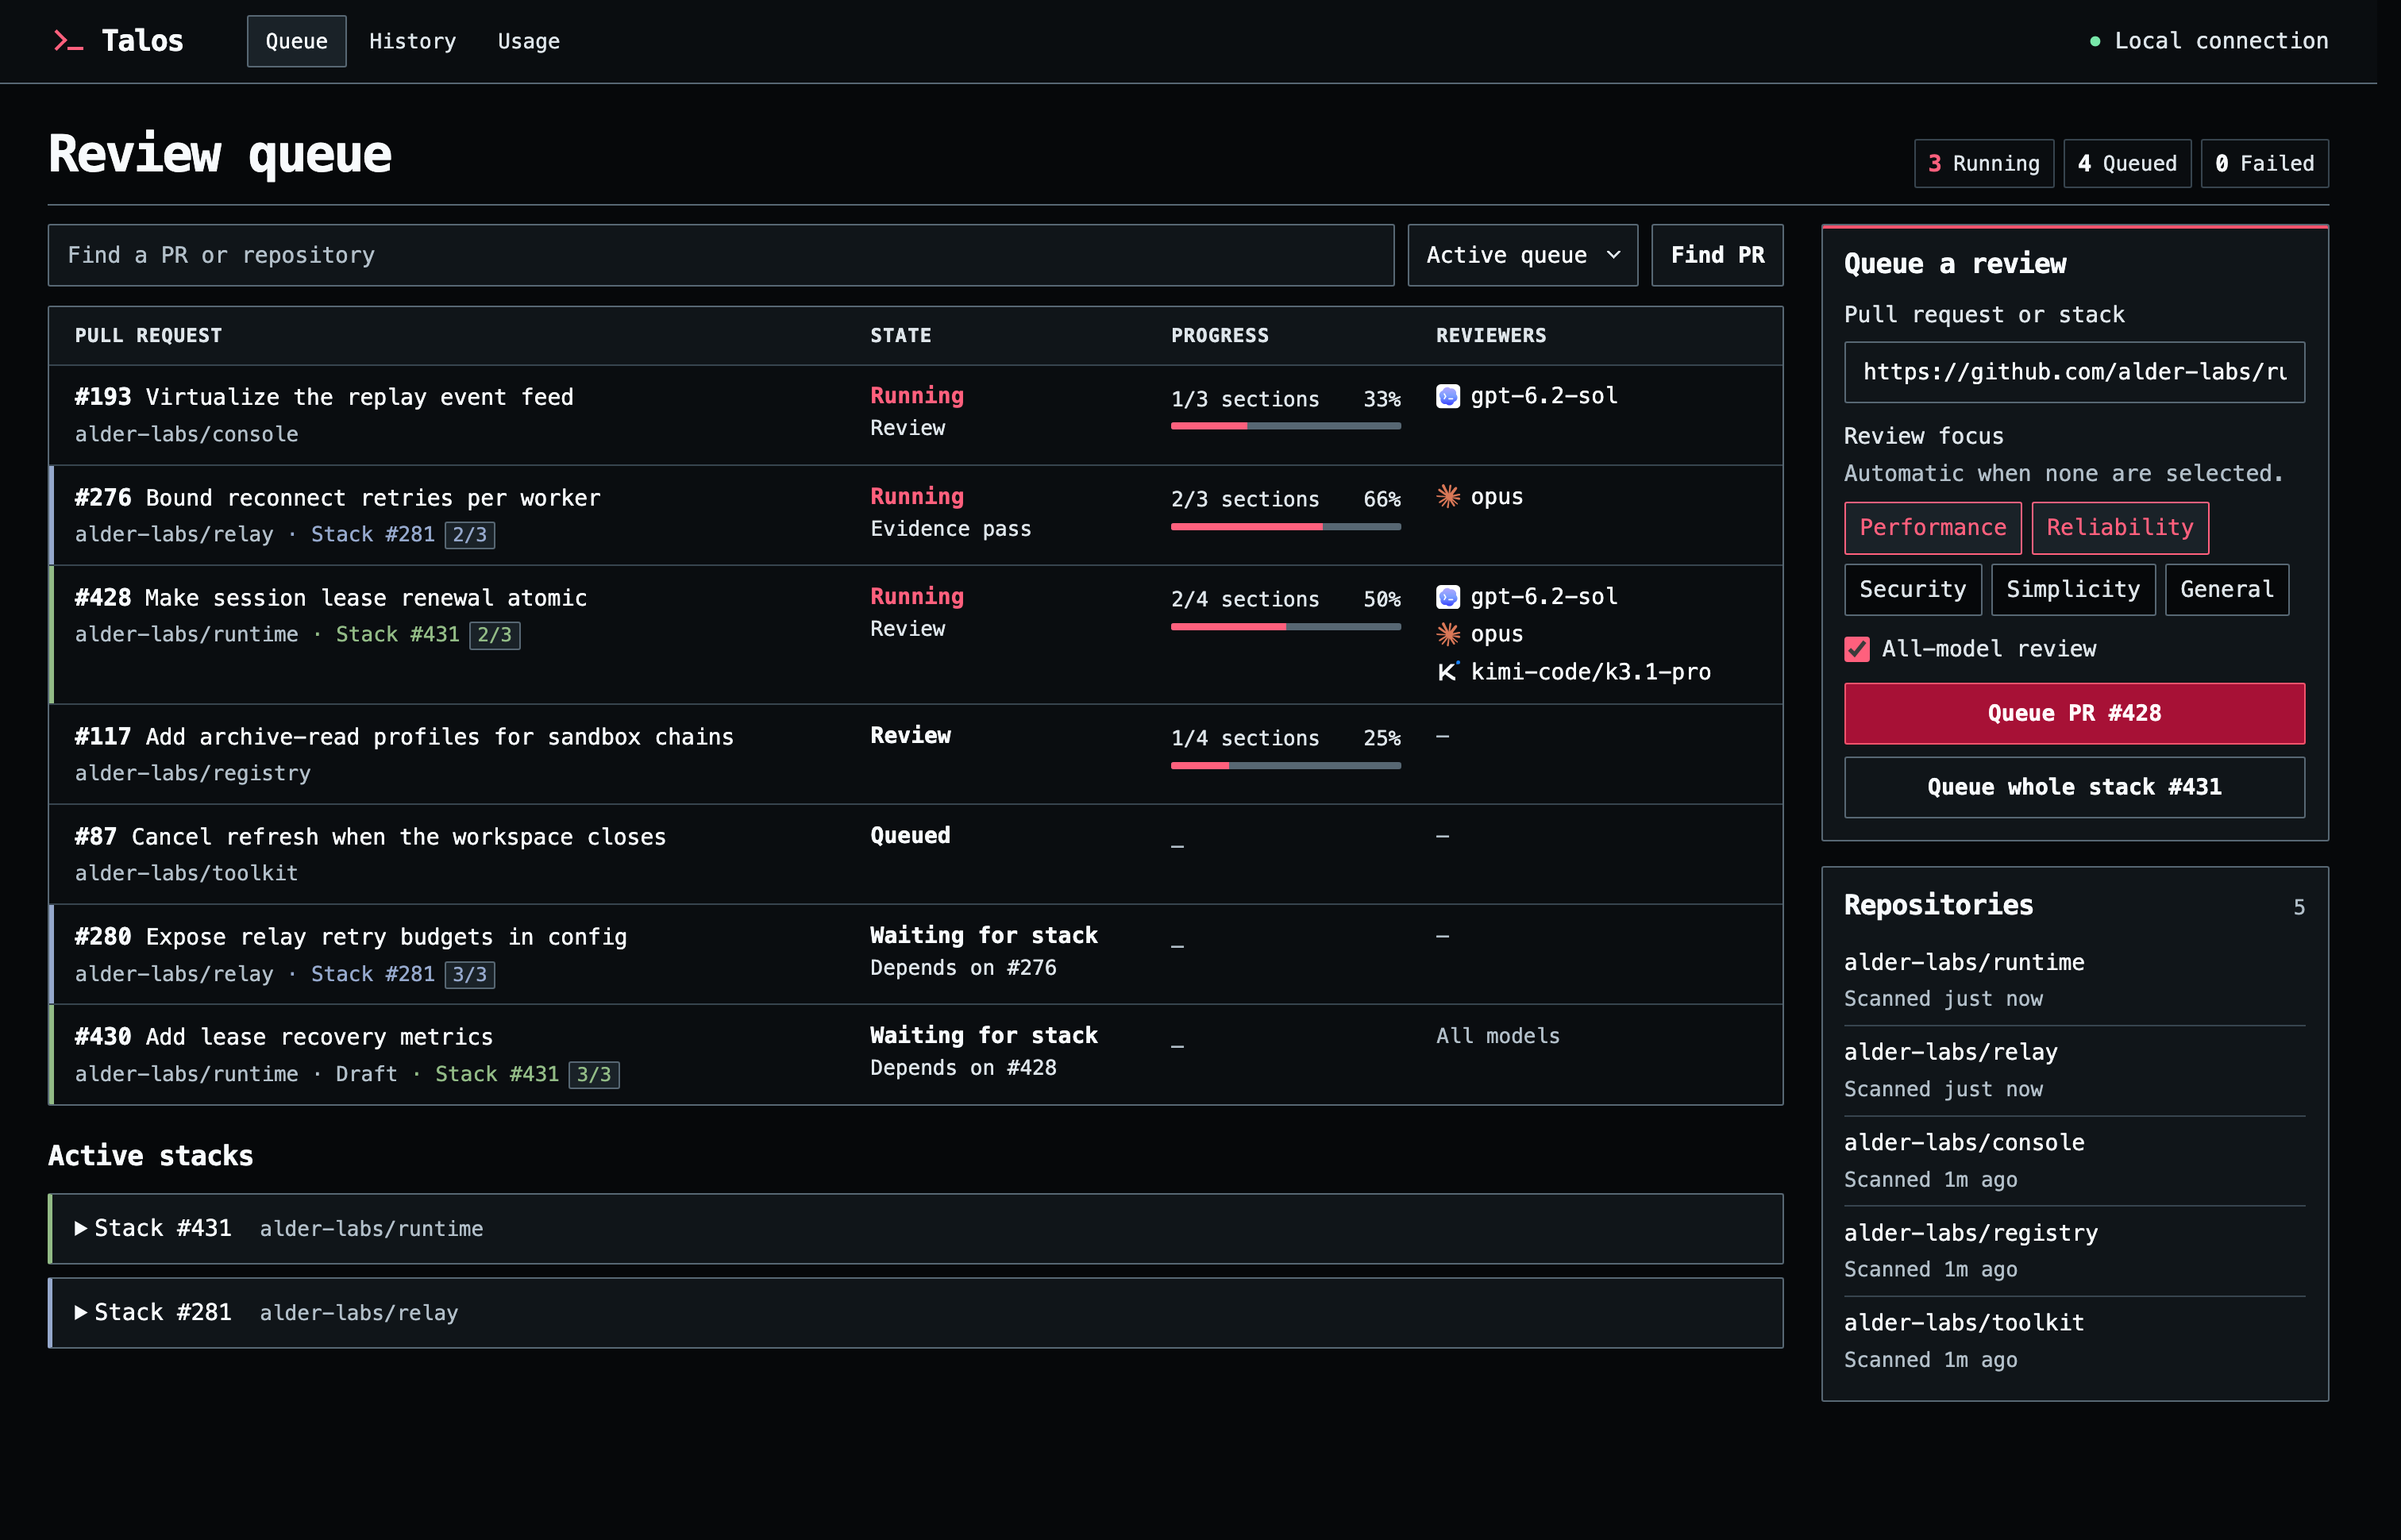
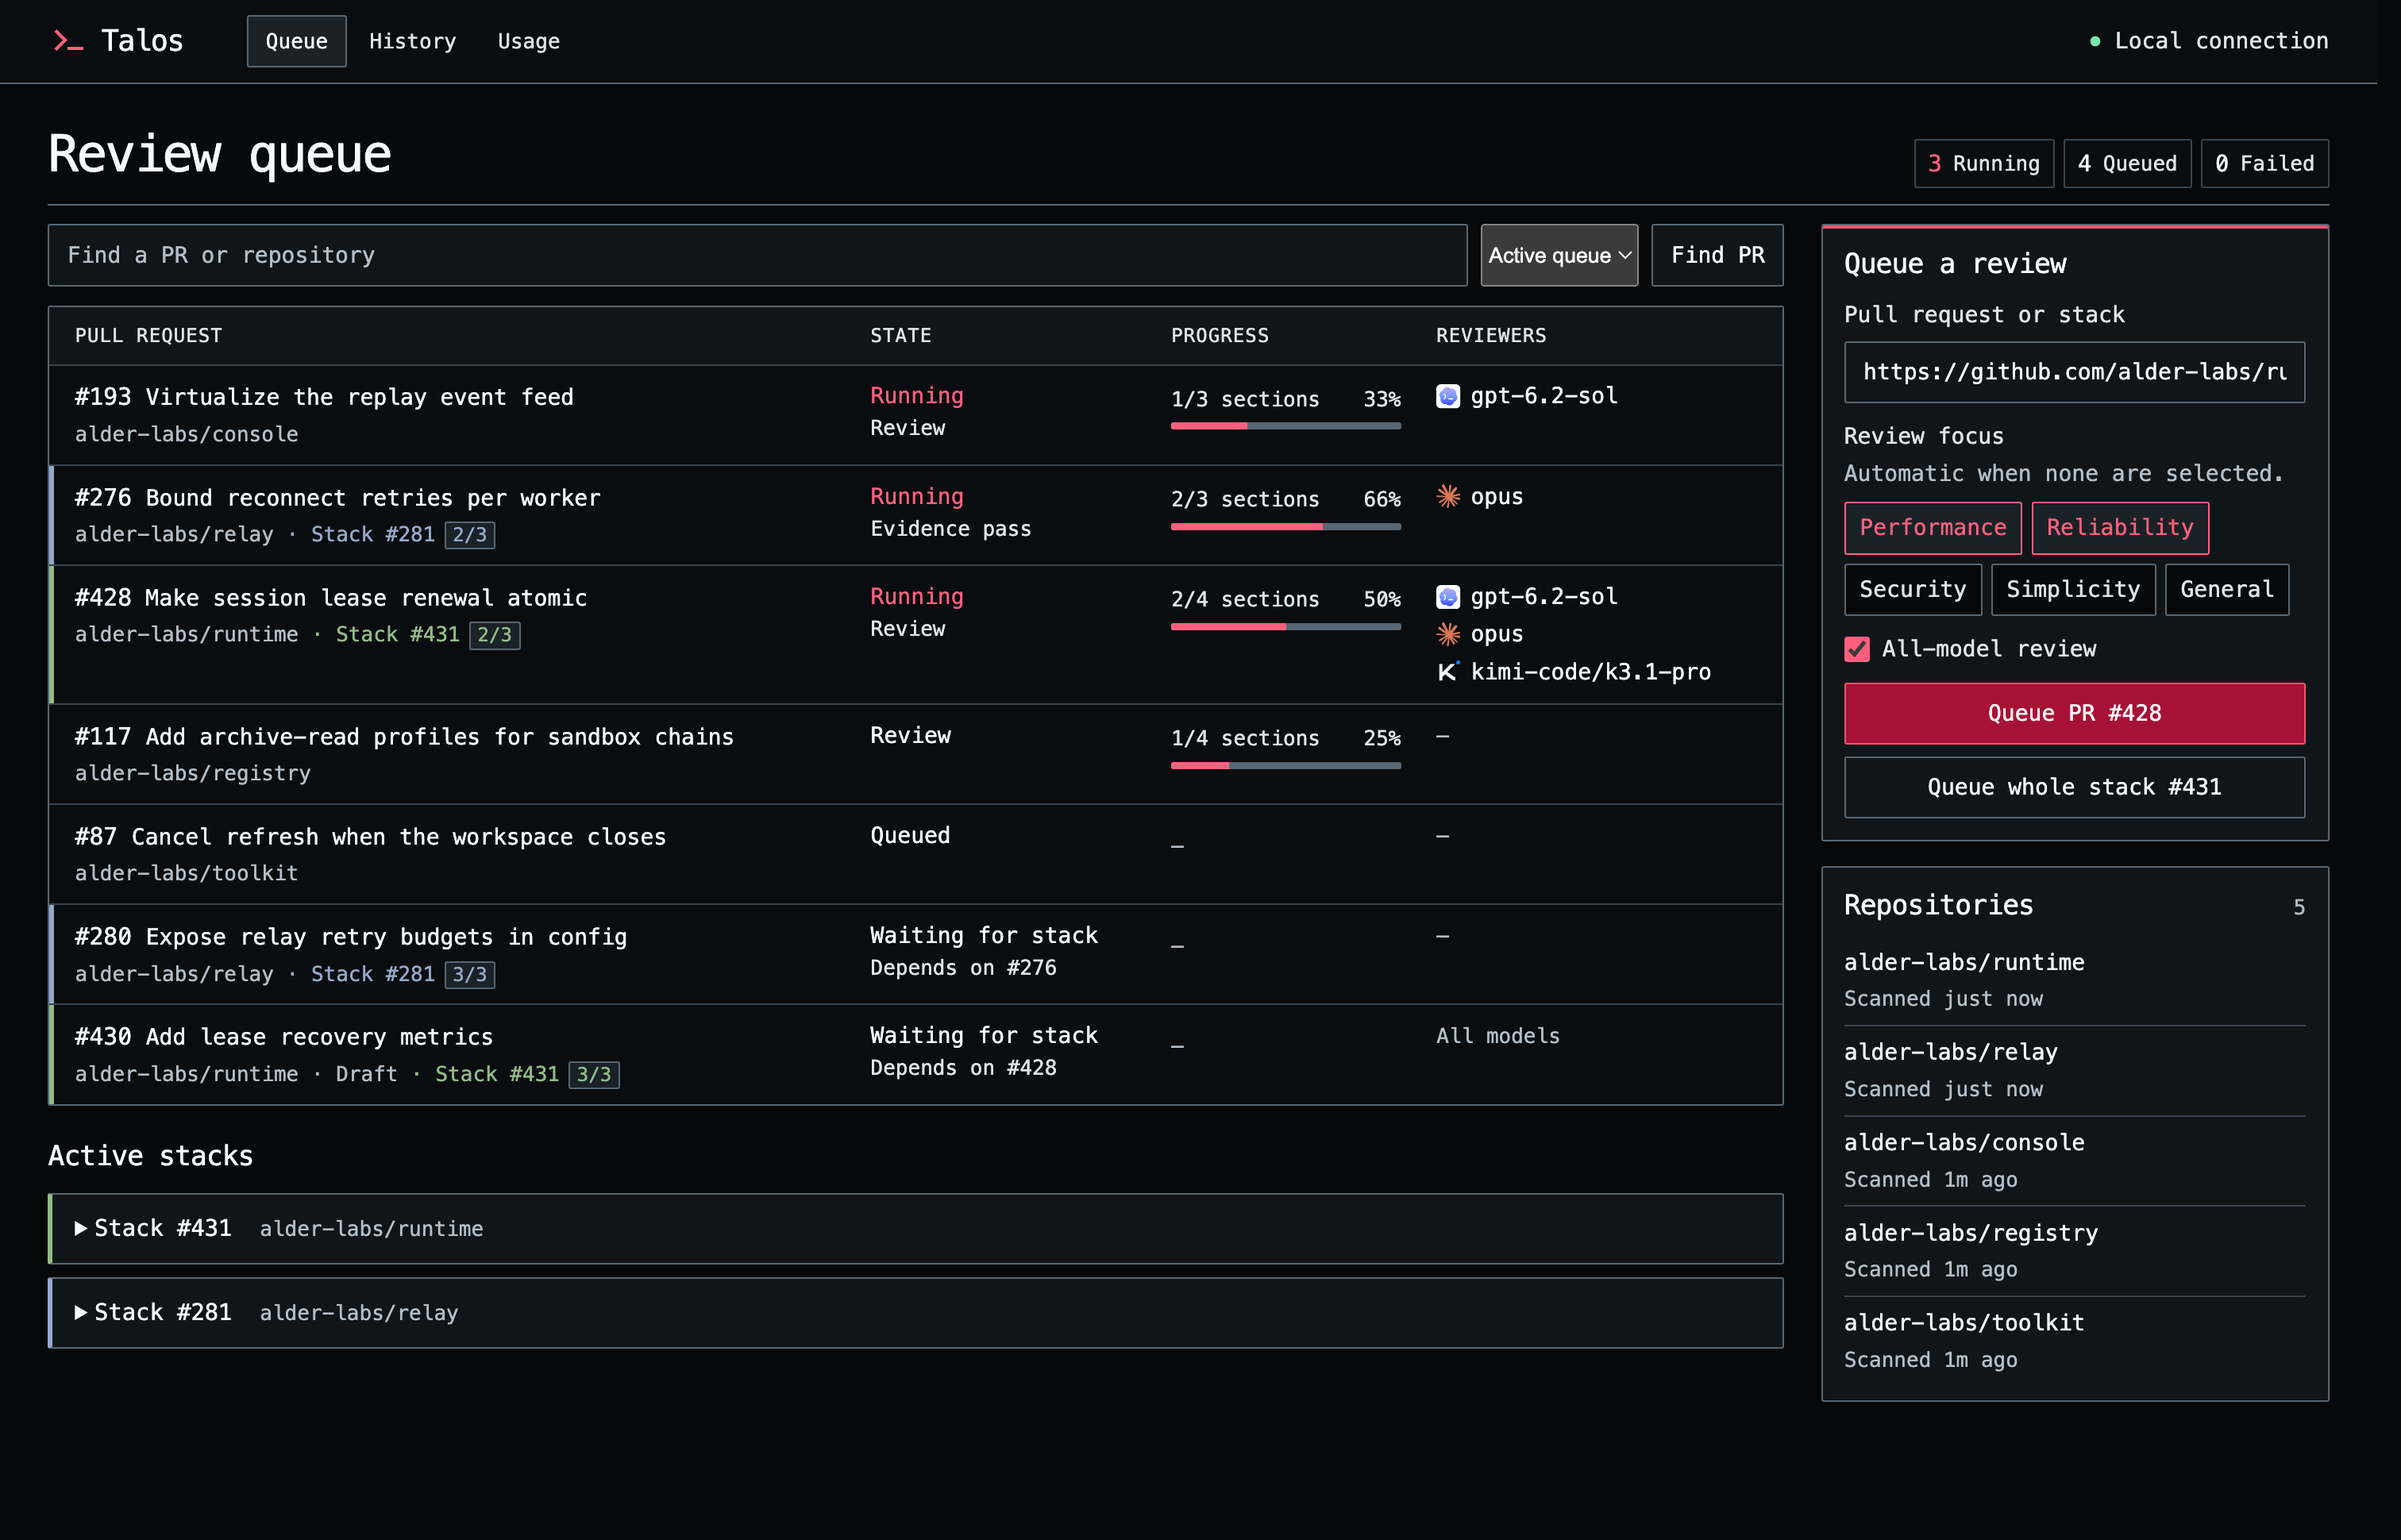
fix: use native dashboard selects and lighter type (#30)
Use browser-native selects and reduce type weight across the dashboard.

Changed region(s): [[0.5906, 0.1237, 0.6839, 0.1856], [0.0311, 0.0928, 0.1554, 0.1237]]

diff --git a/src/dashboard_web/app.css b/src/dashboard_web/app.css
@@ -36,18 +36,18 @@ body {
   font-variant-ligatures: none;
 }
 
-button, input, select { font: inherit; }
-button, a, input, select, summary { -webkit-tap-highlight-color: transparent; }
+button, input { font: inherit; }
+button, a, input, summary { -webkit-tap-highlight-color: transparent; }
 button { cursor: pointer; }
 button:disabled { cursor: default; opacity: .66; }
 a { color: var(--accent); text-underline-offset: .2em; }
 p, h1, h2, h3 { margin: 0; }
-h1, h2, h3 { font-weight: 700; line-height: 1.2; }
+h1, h2, h3 { font-weight: 500; line-height: 1.2; }
 h1 { font-size: clamp(1.55rem, 3vw, 2rem); letter-spacing: -.04em; }
 h2 { font-size: 1.08rem; letter-spacing: -.025em; }
 h3 { font-size: 1rem; }
 ul { padding: 0; margin: 0; }
-:is(a, button, input, select, summary, .inspectable, .job-progress, .chart-canvas):focus-visible { outline: 2px solid var(--focus); outline-offset: 3px; }
+:is(a, button, input, summary, .inspectable, .job-progress, .chart-canvas):focus-visible { outline: 2px solid var(--focus); outline-offset: 3px; }
 .mono { font-family: var(--mono); font-variant-numeric: tabular-nums; }
 .minor { color: var(--dim); font-size: .8125rem; }
 .sr-only, .skip-link:not(:focus) {
@@ -90,7 +90,7 @@ ul { padding: 0; margin: 0; }
   gap: .65rem;
   color: var(--text);
   font-size: 1.15rem;
-  font-weight: 700;
+  font-weight: 500;
   letter-spacing: -.04em;
   text-decoration: none;
 }
@@ -182,7 +182,7 @@ ul { padding: 0; margin: 0; }
   border-radius: var(--corner);
   background: var(--header);
 }
-.queue-stat strong { color: var(--text); font-size: .9rem; }
+.queue-stat strong { color: var(--text); font-size: .9rem; font-weight: 500; }
 .queue-stat[data-tone="running"] strong { color: var(--accent); }
 .queue-stat[data-tone="failed"] strong { color: var(--bad); }
 .heading-meta { color: var(--muted); font-size: .9375rem; }
@@ -221,33 +221,24 @@ ul { padding: 0; margin: 0; }
 }
 .search-field { flex: 1 1 11rem; min-width: 0; }
 .search-field input { width: 100%; }
-input:not([type="checkbox"]):not([type="radio"]), select, .button {
+input:not([type="checkbox"]):not([type="radio"]), .button {
   border: 1px solid var(--line);
   border-radius: var(--corner);
   min-height: 2.45rem;
   padding: .49rem .7rem;
 }
-input:not([type="checkbox"]):not([type="radio"]), select {
+input:not([type="checkbox"]):not([type="radio"]) {
   background: var(--surface);
   color: var(--text);
 }
 input::placeholder { color: var(--dim); }
-select {
-  appearance: none;
-  padding-right: 1.95rem;
-  background-image:
-    linear-gradient(45deg, transparent 48%, var(--muted) 50%, var(--muted) 68%, transparent 70%),
-    linear-gradient(-45deg, transparent 48%, var(--muted) 50%, var(--muted) 68%, transparent 70%);
-  background-position: right .92rem center, right .68rem center;
-  background-size: .28rem .34rem;
-  background-repeat: no-repeat;
-}
+select { min-height: 2.45rem; }
 .button {
   display: inline-flex;
   justify-content: center;
   align-items: center;
   font-size: .875rem;
-  font-weight: 650;
+  font-weight: 500;
   white-space: nowrap;
 }
 .button-secondary { background: var(--surface); color: var(--text); }
@@ -280,7 +271,6 @@ select {
   color: var(--muted);
   text-align: center;
   font-size: .875rem;
-  font-weight: 550;
   cursor: pointer;
 }
 .segmented input:checked + span { color: var(--text); background: var(--raised); }
@@ -325,7 +315,7 @@ table {
 th {
   color: var(--muted);
   font-size: .75rem;
-  font-weight: 700;
+  font-weight: 500;
   letter-spacing: .045em;
   background: var(--surface);
   text-transform: uppercase;
@@ -345,7 +335,7 @@ th:last-child, td:last-child { padding-right: 1rem; }
   background: none;
   font-family: var(--mono);
   font-size: .93rem;
-  font-weight: 600;
+  font-weight: 500;
   color: var(--text);
   text-align: left;
   text-underline-offset: .22em;
@@ -381,7 +371,7 @@ th:last-child, td:last-child { padding-right: 1rem; }
   font: .75rem/1.3 var(--mono);
 }
 .phase-text, .phase-note { display: block; }
-.phase-text { color: var(--text); font-weight: 590; white-space: nowrap; }
+.phase-text { color: var(--text); white-space: nowrap; }
 .phase-text[data-tone="good"] { color: var(--good); }
 .phase-text[data-tone="active"] { color: var(--accent); }
 .phase-text[data-tone="warning"] { color: var(--warn); }
@@ -408,6 +398,7 @@ th:last-child, td:last-child { padding-right: 1rem; }
 }
 .dashboard-tooltip dt { color: var(--muted); }
 .dashboard-tooltip dd { margin: 0; overflow-wrap: anywhere; }
+.dashboard-tooltip strong { font-weight: 500; }
 .progress-tooltip dl { grid-template-columns: minmax(0, 1fr); gap: .1rem; }
 .progress-tooltip dt { color: var(--text); }
 .progress-tooltip dd { color: var(--muted); }
@@ -547,7 +538,7 @@ progress::-moz-progress-bar { background: var(--accent); }
 .metric dt { color: var(--muted); font-size: .875rem; }
 .metric dd { margin: 0; }
 .metric .primary-value {
-  font: 600 clamp(1.45rem, 4vw, 2.15rem)/1.18 var(--mono);
+  font: 500 clamp(1.45rem, 4vw, 2.15rem)/1.18 var(--mono);
   letter-spacing: -.06em;
   overflow-wrap: anywhere;
 }
